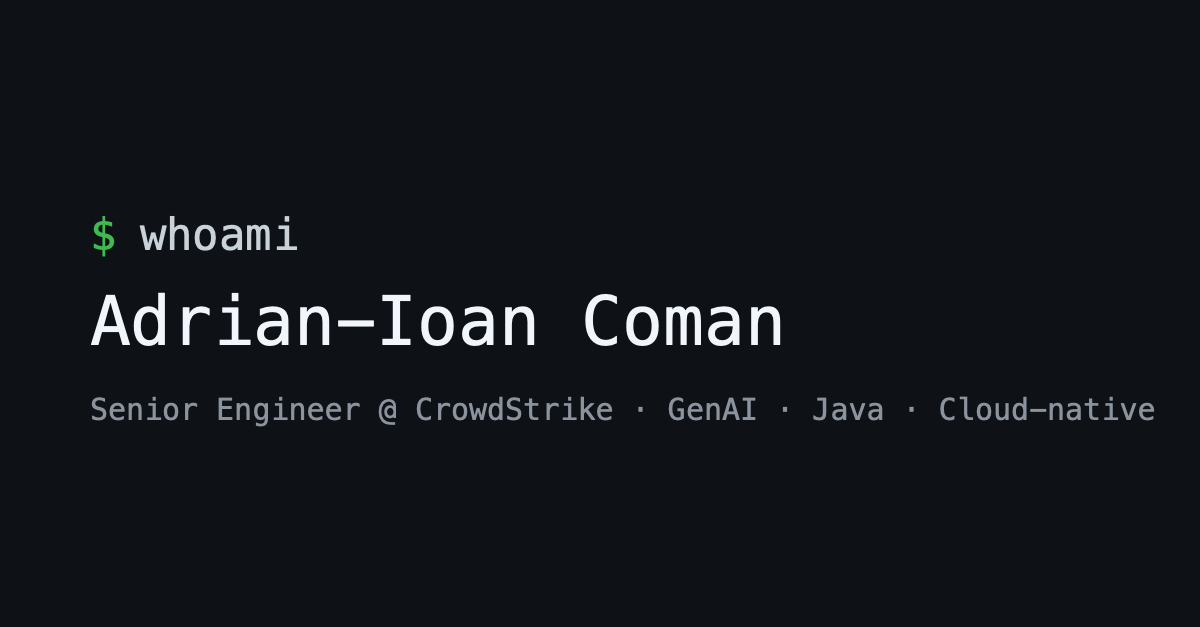
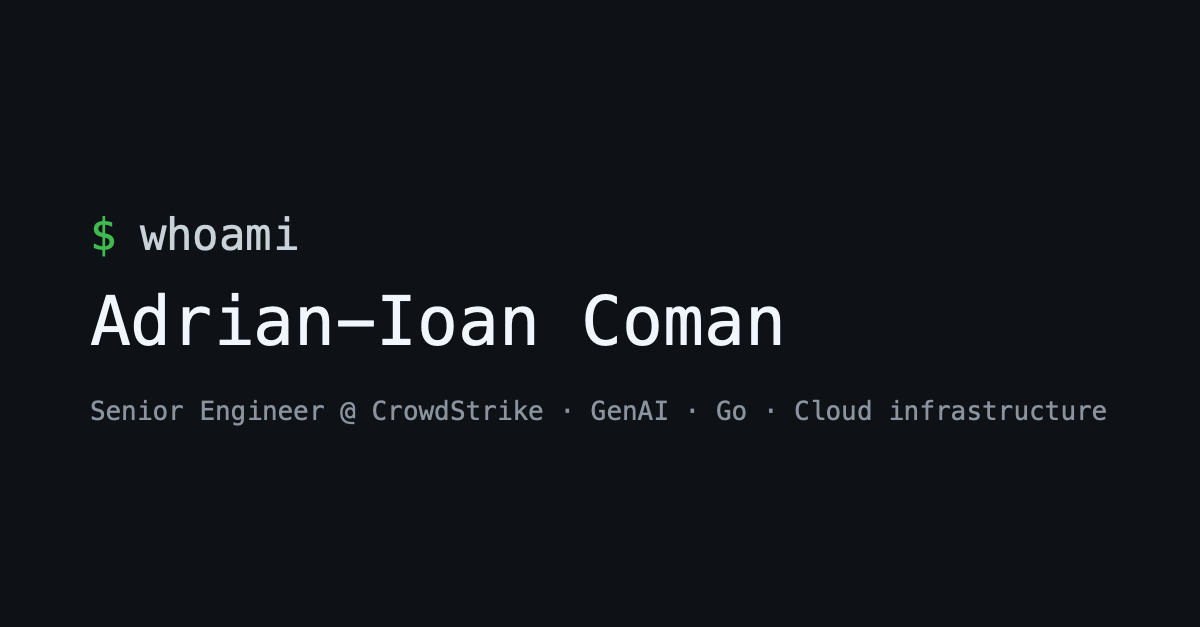
content: lead with GenAI infrastructure and Go instead of Java
Claude-Session: https://claude.ai/code/session_01AtBVNRmpYy7RLfVuKg1r4P

Changed region(s): [[0.0617, 0.6364, 0.9558, 0.697]]

diff --git a/layouts/_default/index.html b/layouts/_default/index.html
@@ -20,7 +20,7 @@
         <p class="prompt">$ whoami</p>
         <p class="out">{{ lower site.Title }}</p>
         <p class="prompt">$ cat role.txt</p>
-        <p class="out">Senior Engineer @ CrowdStrike · Cloud</p>
+        <p class="out">Senior Engineer @ CrowdStrike · GenAI infrastructure</p>
         <p class="prompt">$ ls skills/</p>
         <p class="out chips">{{ range site.Params.skills }}<span>{{ . }}</span>{{ end }}</p>
         <p class="prompt">$ <span class="cursor" aria-hidden="true"></span></p>

diff --git a/layouts/writing/list.html b/layouts/writing/list.html
@@ -3,7 +3,7 @@
   <section class="wrap page" id="main">
     <p class="prompt">$ ls writing/</p>
     <h1 class="page-title">Writing</h1>
-    <p class="page-sub">Notes on Java, cloud-native systems and generative AI.</p>
+    <p class="page-sub">Notes on generative AI, Go and cloud infrastructure.</p>
     {{ with .RegularPages }}
       <ul class="ls post-list">
         {{ range . }}

diff --git a/content/about.md b/content/about.md
@@ -1,7 +1,7 @@
 ---
 title: "About"
 layout: about
-description: "Adrian-Ioan Coman — Senior Engineer at CrowdStrike working on cloud and generative AI, Java and microservices."
+description: "Adrian-Ioan Coman — Senior Engineer at CrowdStrike building generative AI projects and infrastructure in Go."
 experience:
   - company: "CrowdStrike"
     years: "Present"
@@ -27,6 +27,6 @@ education:
 skills: ["Generative AI", "Java", "Go", "Spring Boot", "Microservices", "Software Design"]
 ---
 
-I'm passionate about exploring new technologies and applying them to real-world problems. My
-focus is the Java ecosystem, microservices and cloud-native development, and I'm deeply
-interested in the potential of generative AI. Always learning.
+I'm passionate about exploring new technologies and applying them to real-world problems. Today
+I work on generative AI projects and the infrastructure behind them, mostly in Go. Before that I
+spent years in the Java ecosystem building microservices and cloud-native systems. Always learning.

diff --git a/content/_index.md b/content/_index.md
@@ -2,6 +2,6 @@
 title: "Adrian-Ioan Coman"
 ---
 
-I build cloud systems in Java and explore what generative AI can do for real-world software.
-Based in Bucharest and always learning — the best place to reach me is
+I build generative AI projects and the infrastructure behind them, mostly in Go. Based in
+Bucharest and always learning — the best place to reach me is
 [LinkedIn](https://www.linkedin.com/in/adrian-ioan-coman/).

diff --git a/content/writing/_index.md b/content/writing/_index.md
@@ -1,4 +1,4 @@
 ---
 title: "Writing"
-description: "Notes by Adrian-Ioan Coman on Java, cloud-native systems and generative AI."
+description: "Notes by Adrian-Ioan Coman on generative AI, Go and cloud infrastructure."
 ---
